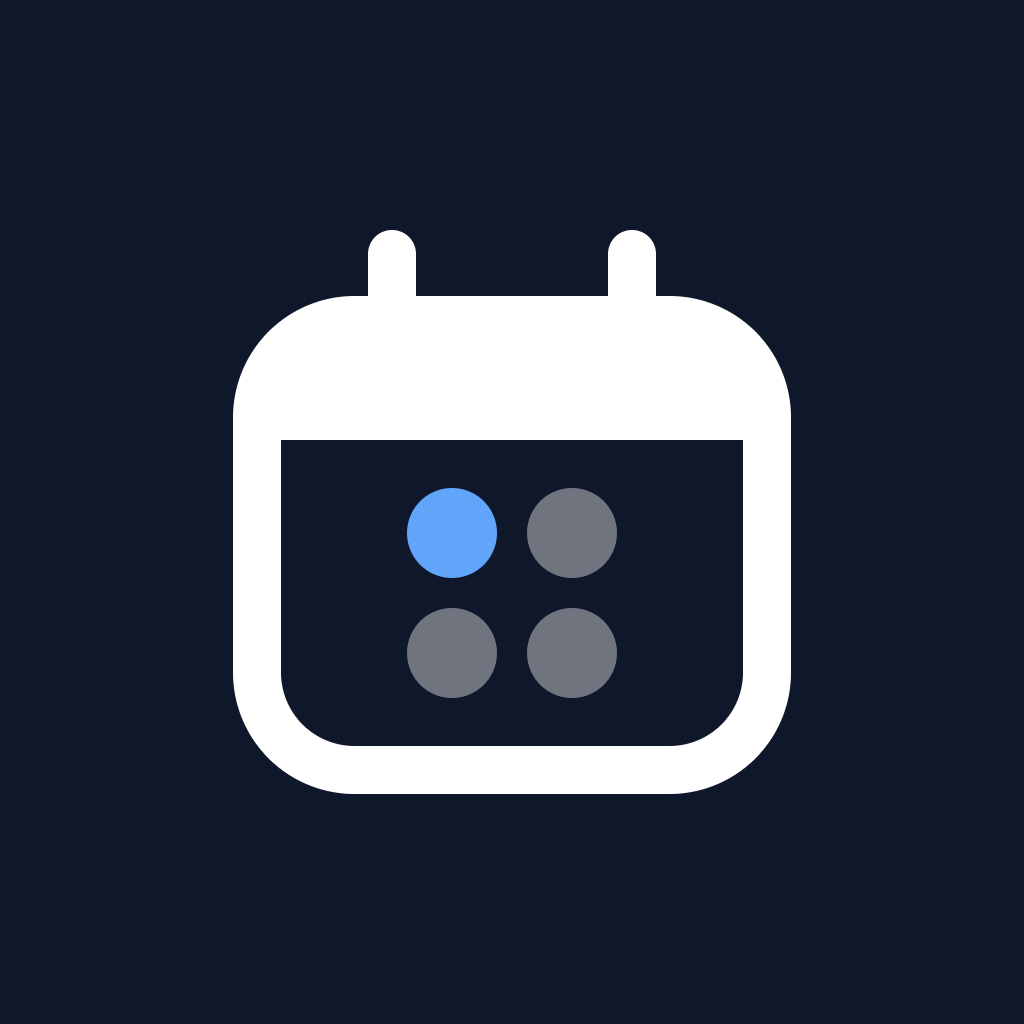
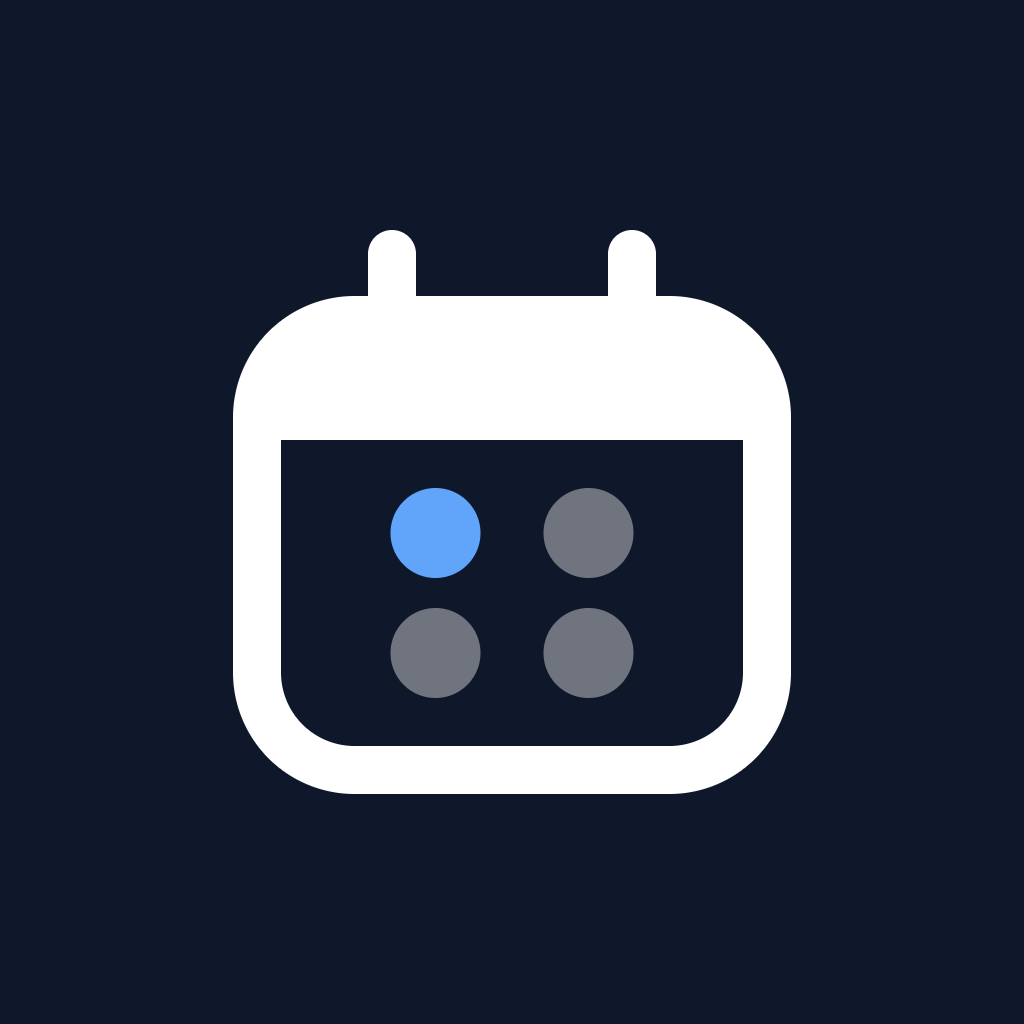
fix(brand): even horizontal date-dot spacing
Spread the date-dot columns to even thirds so the horizontal gaps match
the vertical spacing — the 2×2 grid now reads as evenly distributed in
both axes. Regenerate the icon, favicon, and splash.

Changed region(s): [[0.375, 0.5938, 0.625, 0.6875], [0.375, 0.4688, 0.625, 0.5625]]

diff --git a/apps/web/components/brand/Logo.tsx b/apps/web/components/brand/Logo.tsx
@@ -25,11 +25,11 @@ export function LogoMark({ className }: { className?: string }) {
       {/* header strip (rounded top, squared bottom) */}
       <rect x="7" y="11" width="34" height="8" rx="6.5" fill="currentColor" />
       <rect x="7" y="14.5" width="34" height="4.5" fill="currentColor" />
-      {/* date dots — even square grid, centred in the body; top-left accented */}
-      <circle cx="20" cy="25.2" r="3" fill="var(--logo-accent, #2563eb)" />
-      <circle cx="28" cy="25.2" r="3" fill="currentColor" opacity="0.35" />
-      <circle cx="20" cy="33.2" r="3" fill="currentColor" opacity="0.35" />
-      <circle cx="28" cy="33.2" r="3" fill="currentColor" opacity="0.35" />
+      {/* date dots — evenly spaced 2×2 grid, centred in the body; top-left accented */}
+      <circle cx="18.9" cy="25.2" r="3" fill="var(--logo-accent, #2563eb)" />
+      <circle cx="29.1" cy="25.2" r="3" fill="currentColor" opacity="0.35" />
+      <circle cx="18.9" cy="33.2" r="3" fill="currentColor" opacity="0.35" />
+      <circle cx="29.1" cy="33.2" r="3" fill="currentColor" opacity="0.35" />
     </svg>
   )
 }
